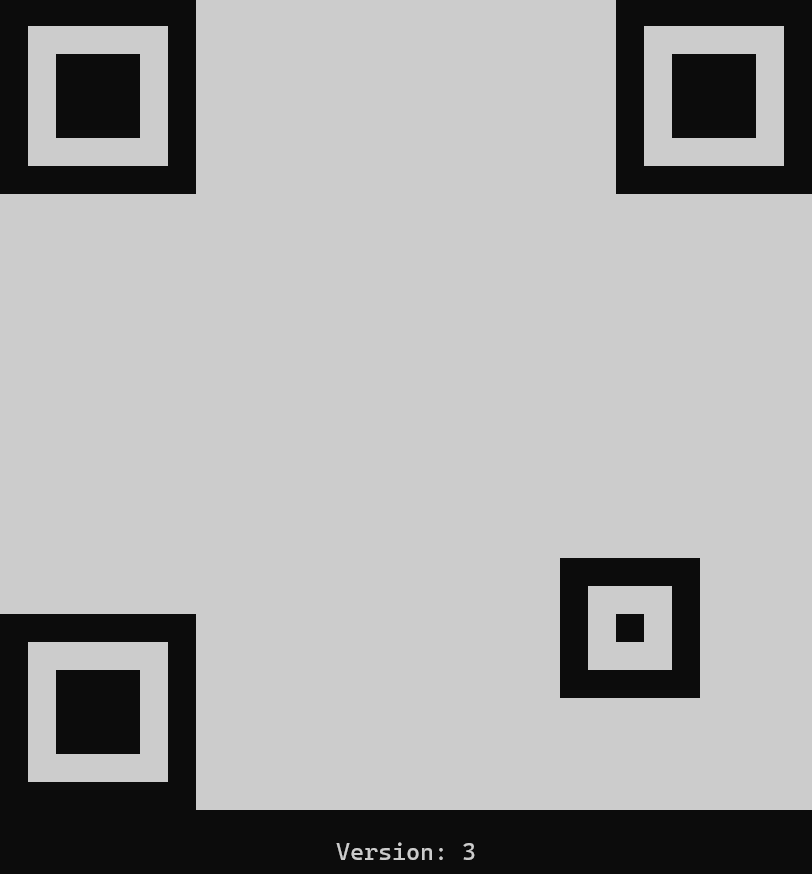
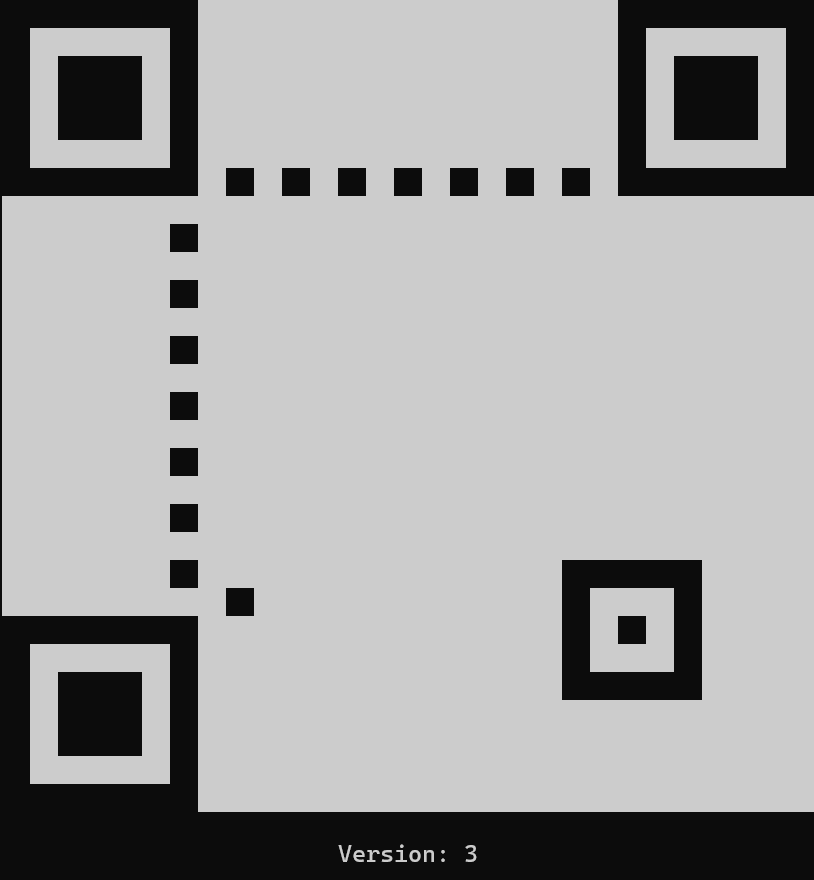
add timing pattern & dark module

diff --git a/src/types.rs b/src/types.rs
@@ -300,6 +300,47 @@ impl QrCode {
             }
         }
     }
+
+    pub fn timing_patterns(&mut self) {
+        let length = self.size() - 16;
+
+        let mut bit;
+        for dx in 0..length {
+            let x = dx + 8;
+
+            if self.get(x, 6).unwrap().is_functional() {
+                continue;
+            }
+
+            if x % 2 == 0 {
+                bit = Bit::One(true);
+            } else {
+                bit = Bit::Zero(true);
+            }
+
+            self.put(x, 6, bit);
+        }
+
+        for dy in 0..length {
+            let y = dy + 8;
+
+            if self.get(6, y).unwrap().is_functional() {
+                continue;
+            }
+
+            if y % 2 == 0 {
+                bit = Bit::One(true);
+            } else {
+                bit = Bit::Zero(true);
+            }
+
+            self.put(6, y, bit);
+        }
+    }
+
+    pub fn dark_module(&mut self) {
+        self.put(8, (4 * self.version + 9) as u32, Bit::One(true))
+    }
 }
 
 impl fmt::Display for QrCode {

diff --git a/src/main.rs b/src/main.rs
@@ -3,9 +3,11 @@ use crate::types::{EcLevel, QrCode};
 mod types;
 
 fn main() {
-    let mut qrcode = QrCode::new(8, EcLevel::L).unwrap();
+    let mut qrcode = QrCode::new(3, EcLevel::L).unwrap();
     qrcode.finder_patterns();
     qrcode.separators_patterns();
     qrcode.alignment_patterns();
+    qrcode.timing_patterns();
+    qrcode.dark_module();
     println!("{}", qrcode);
 }

diff --git a/README.md b/README.md
@@ -17,11 +17,11 @@ and validating QR code versions.
 
 ## TODO
 
-- add the timing patterns
-- add the dark module
-- add the format information
-- fill the qr with the data
-- implement error correction algorithm to match EC levels
+- [x] add the timing patterns
+- [x] add the dark module
+- [ ] add the format information
+- [ ] fill the qr with the data
+- [ ] implement error correction algorithm to match EC levels
 
 ## Features
 
@@ -40,7 +40,8 @@ and validating QR code versions.
 To install the project, clone the repository and build it using Cargo:
 
 ```sh
-git clone https://github.com/doge0420/QR-code-generator
+git clone https://github.com/doge0420/QR-code-generator.git
 cd qrcode
 cargo build
 cargo run
+```
